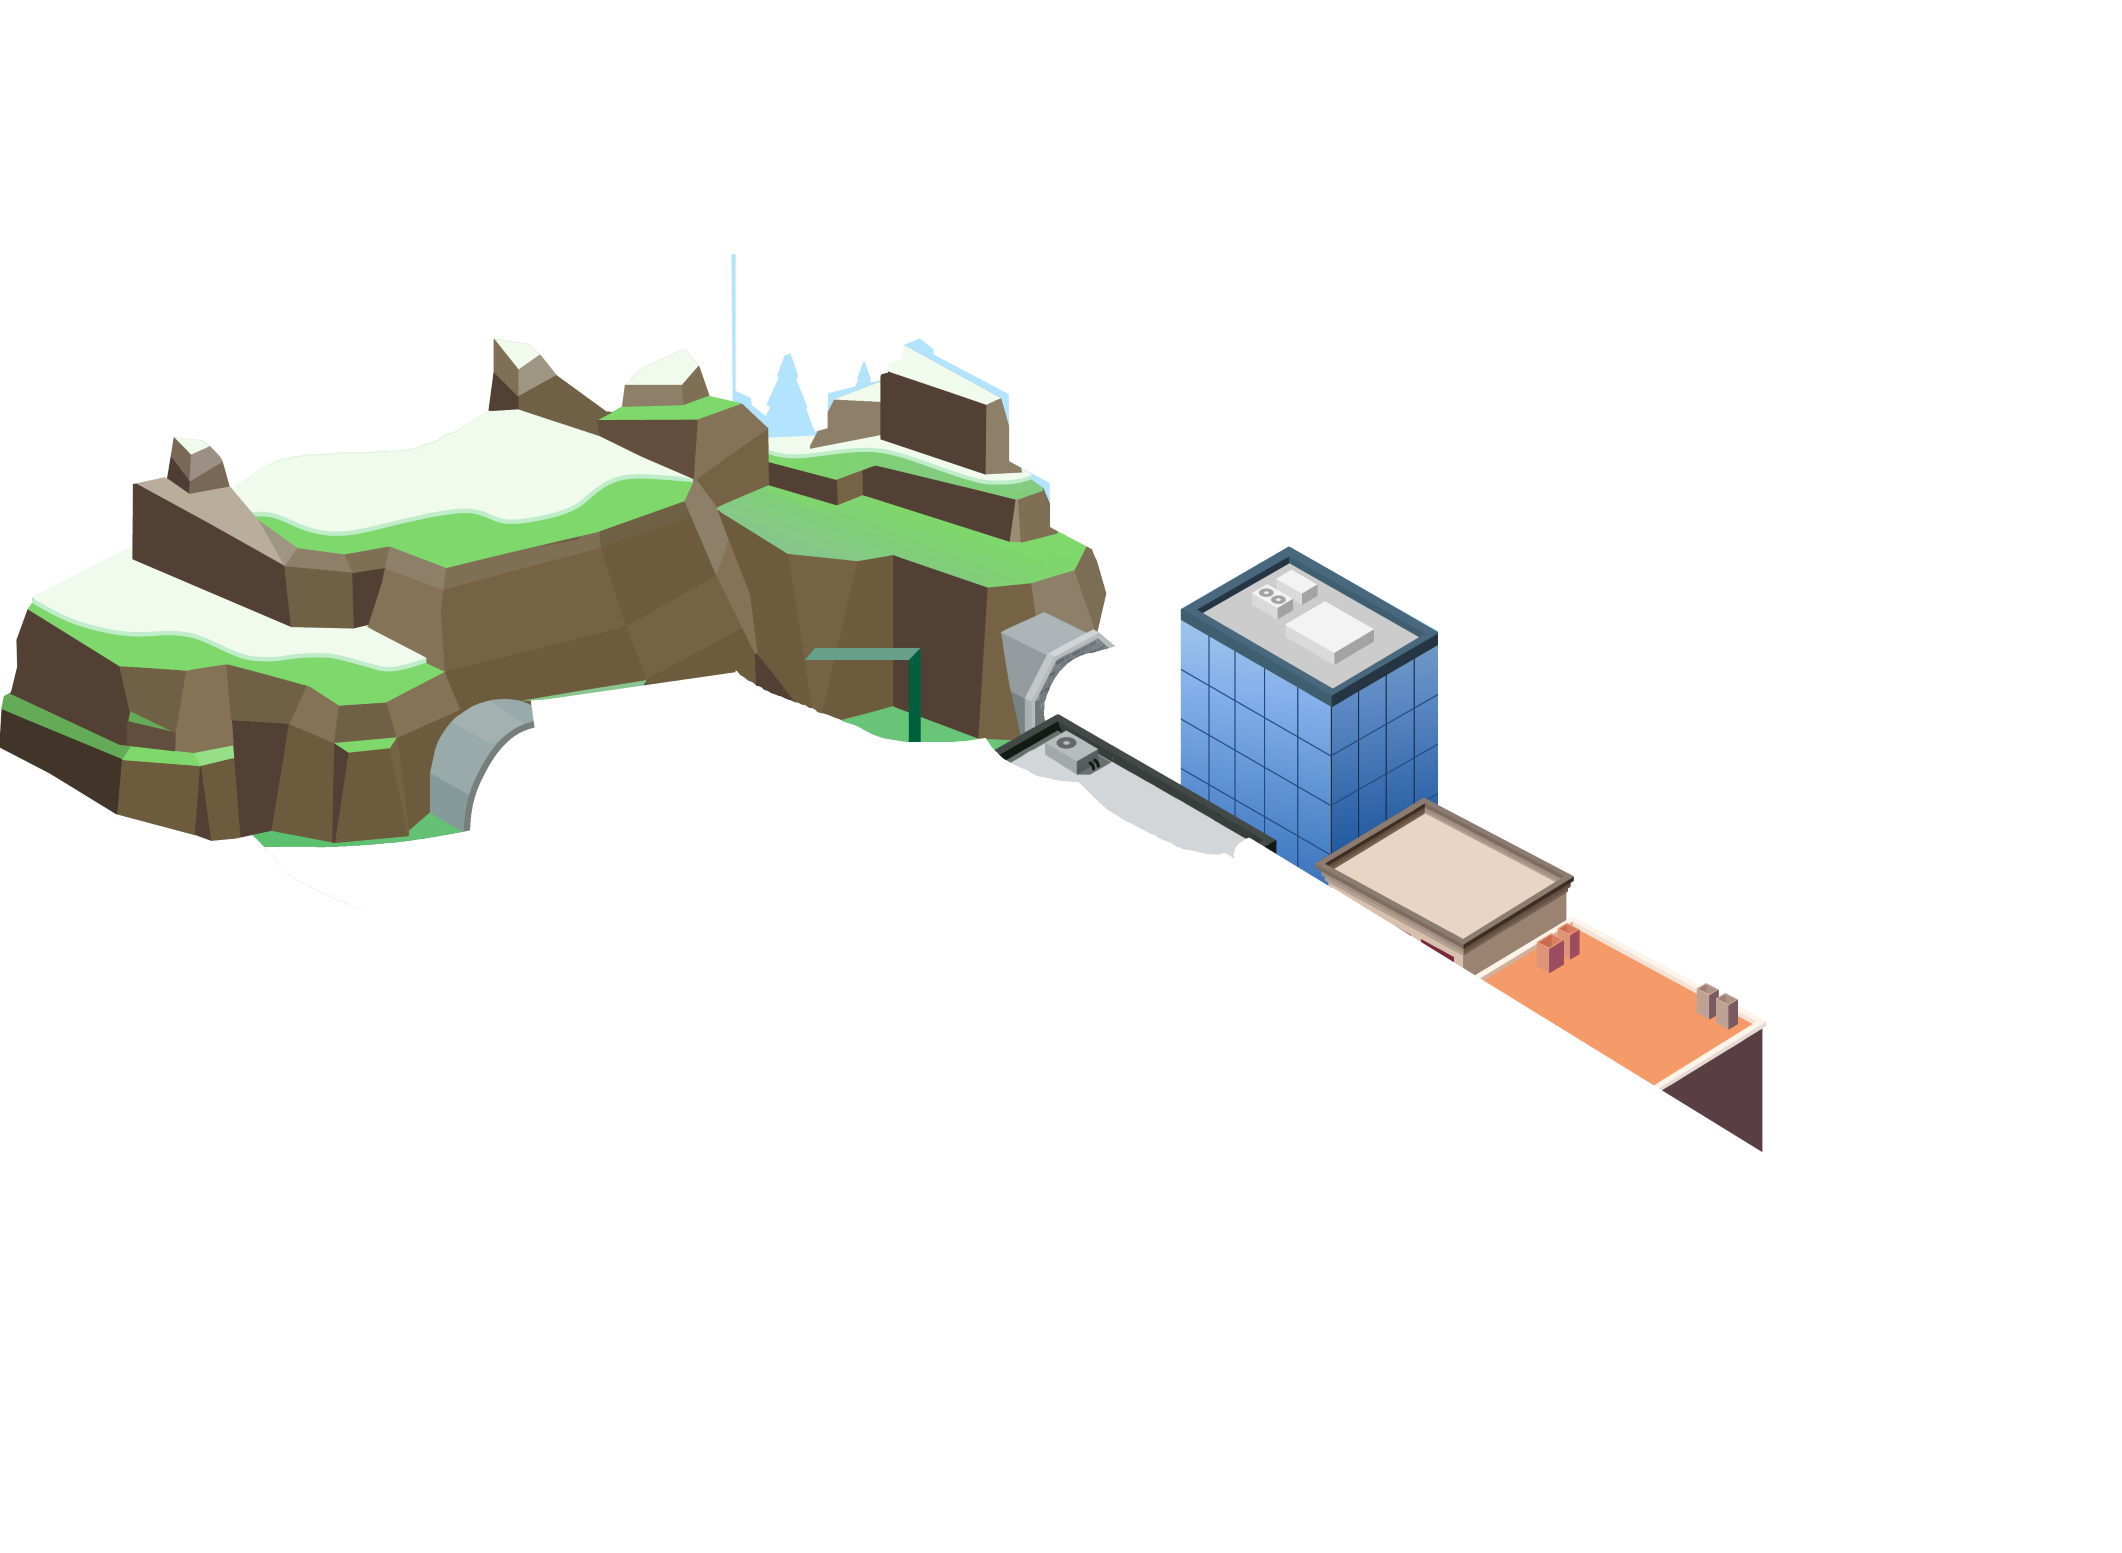
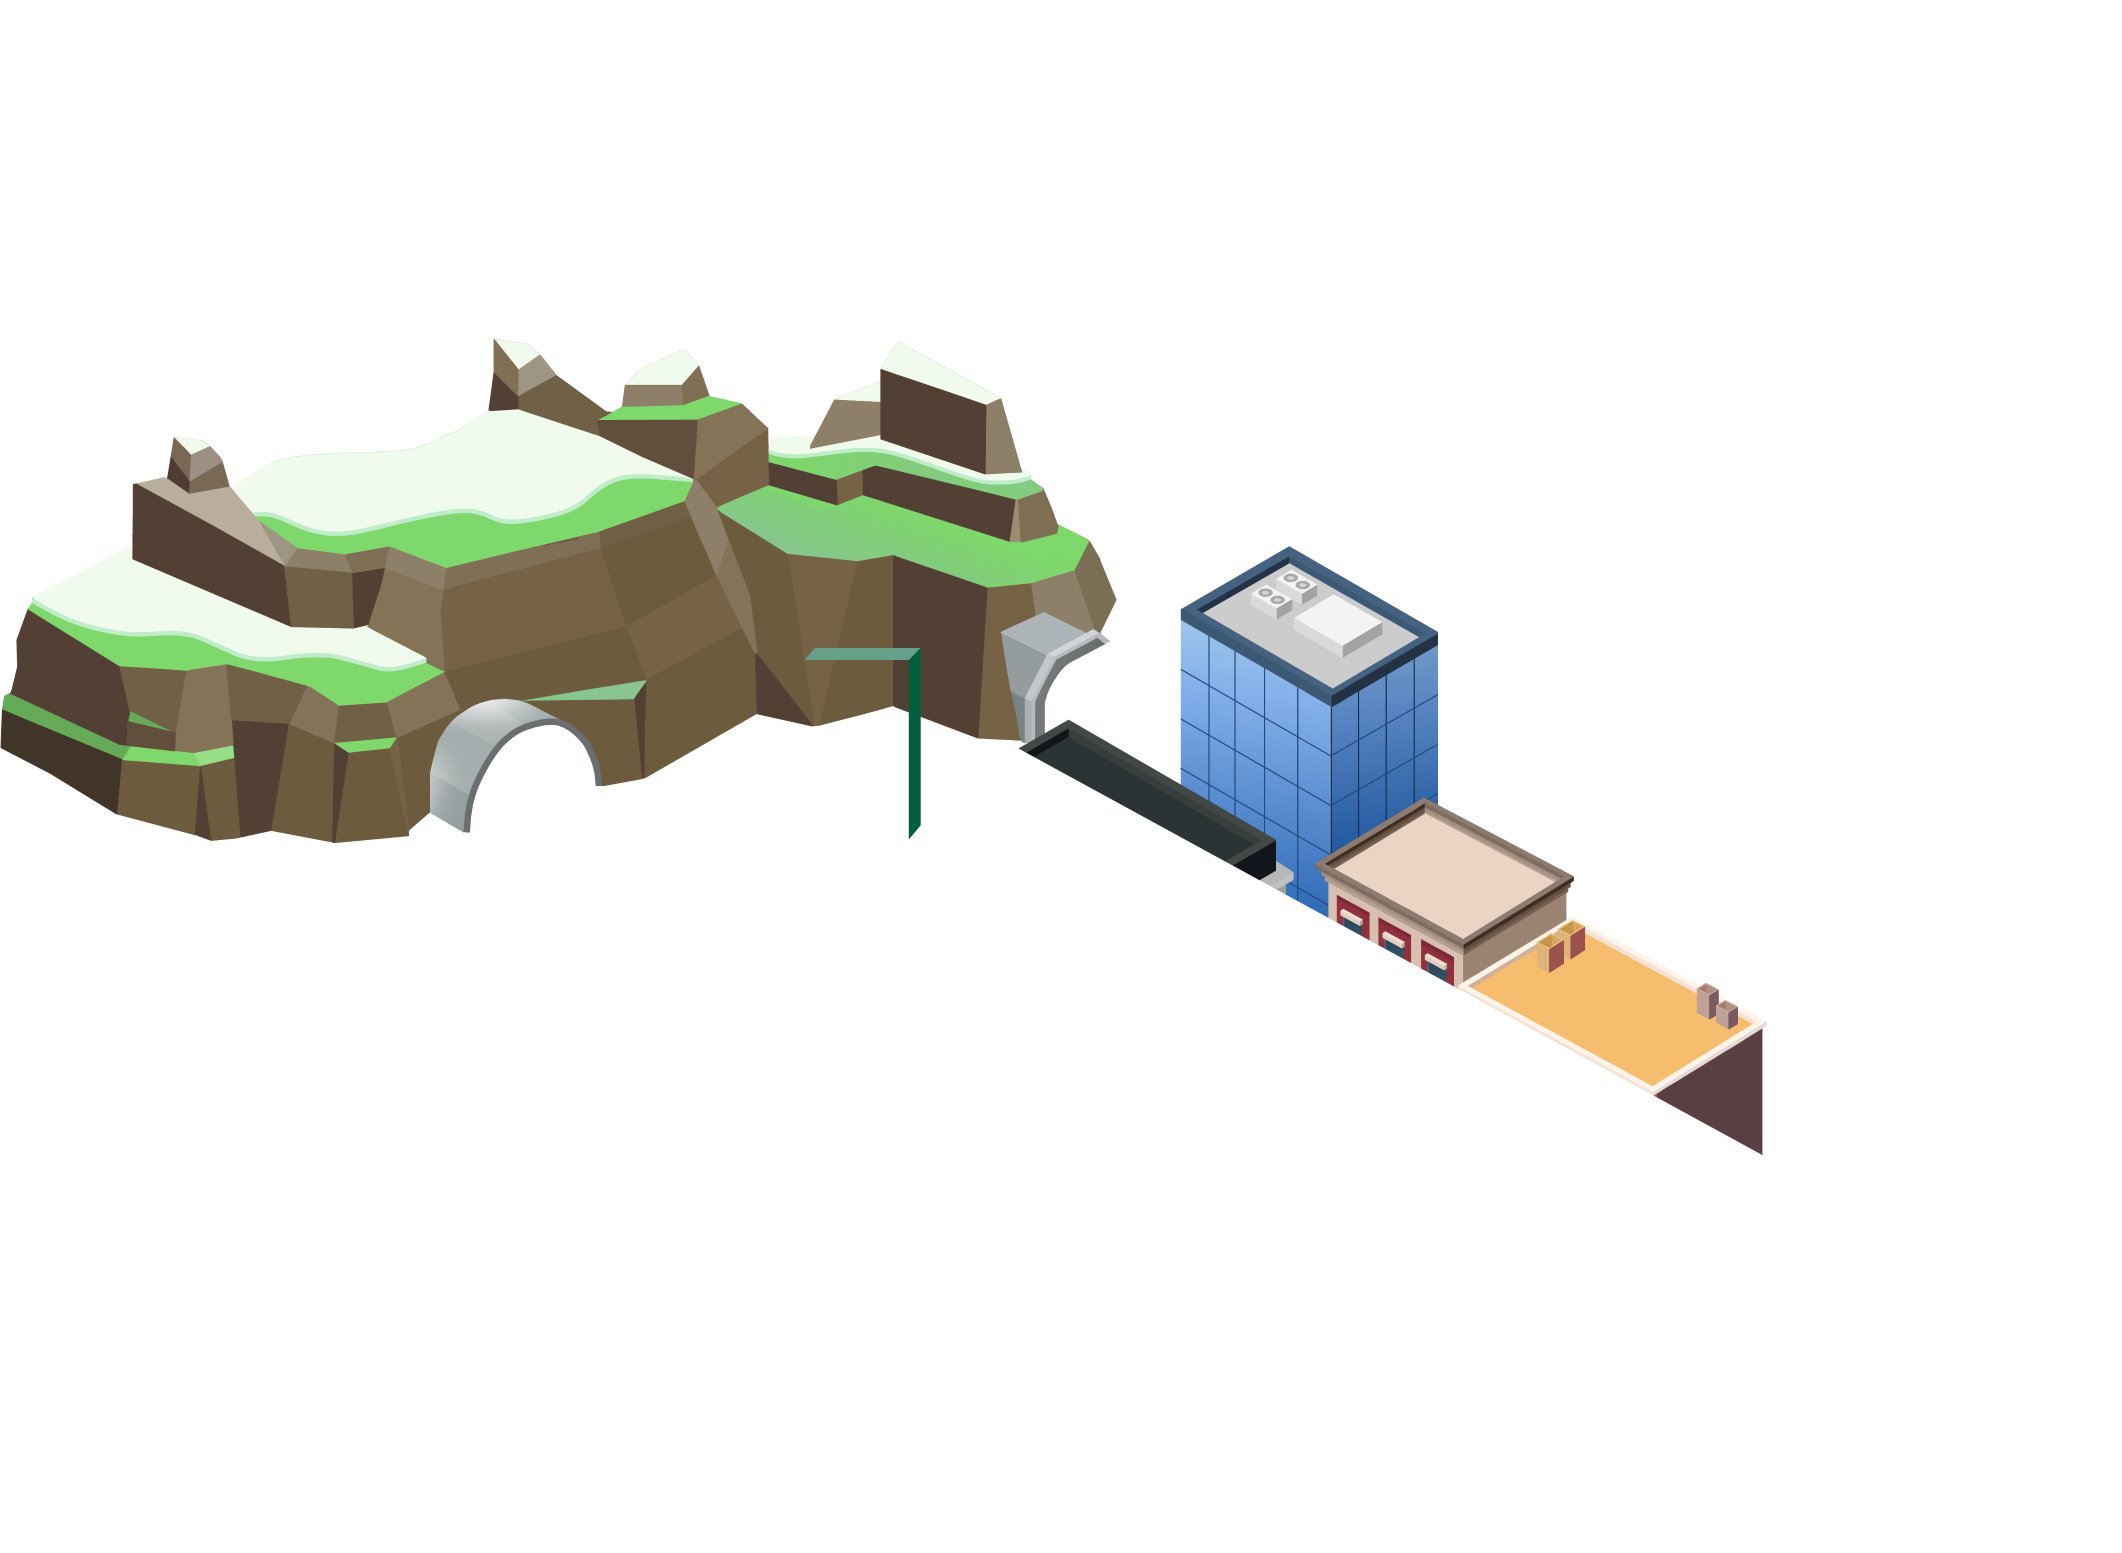
Update city section

diff --git a/css/custom.css b/css/custom.css
@@ -418,6 +418,24 @@ a {
   width: 8%;
 }
 
+.illuminated-sign-position {
+  position: absolute;
+  width: 100%;
+  margin-top: 40%;
+  left: 48.2%;
+}
+
+.illuminated-sign {
+  position: absolute;
+  z-index: 16;
+  width: 10%;
+}
+
+.illuminated-sign img {
+  position: absolute;
+  width: 15%;
+}
+
 .carbon-neutral-position {
   position: absolute;
   width: 100%;
@@ -512,20 +530,20 @@ a {
 .car-position {
   position: absolute;
   width: 100%;
-  top: 40%;
-  left: 10%;
+  top: 38%;
+  left: 8%;
 }
 
 .car {
   position: relative;
-  width: 17%;
+  width: 19%;
   z-index: 8;
 }
 
 .car-move {
   width: 50%;
   transition: all 6.0s ease-out;
-  transform: translate(543%, 460%);
+  transform: translate(505%, 440%);
 }
 
 .cloud {
@@ -602,10 +620,6 @@ a {
 
 #werdegang li {
   margin: 0;
-}
-
-#werdegang ul:before {
-
 }
 
 #werdegang a{

diff --git a/index.php b/index.php
@@ -45,13 +45,17 @@
 
 			<div class="traffic-light"><img src="img/header/traffic_light_red.png"></img></div>
 
+			<div class="illuminated-sign-position">
+				<div class="illuminated-sign"><img src="img/header/illuminated-sign.gif"></img></div>
+			</div>
+
 			<!-- CITY LAYER 1 -->
 			<div class="city-layer-top">
 				<img src="img/header/city_layertop.png"></img>
 			</div>
 
-			<div class="cloud transition-up"><img src="img/header/cloud2.png"></img></div>
-			<div class="cloud1 transition-up"><img src="img/header/cloud2.png"></img></div>
+			<div class="cloud transition-up"><img src="img/header/cloud.svg"></img></div>
+			<div class="cloud1 transition-up"><img src="img/header/cloud.svg"></img></div>
 
 			<div class="train-position">
 				<div class="train"><img src="img/header/train.png" class="train-move"></img></div>
